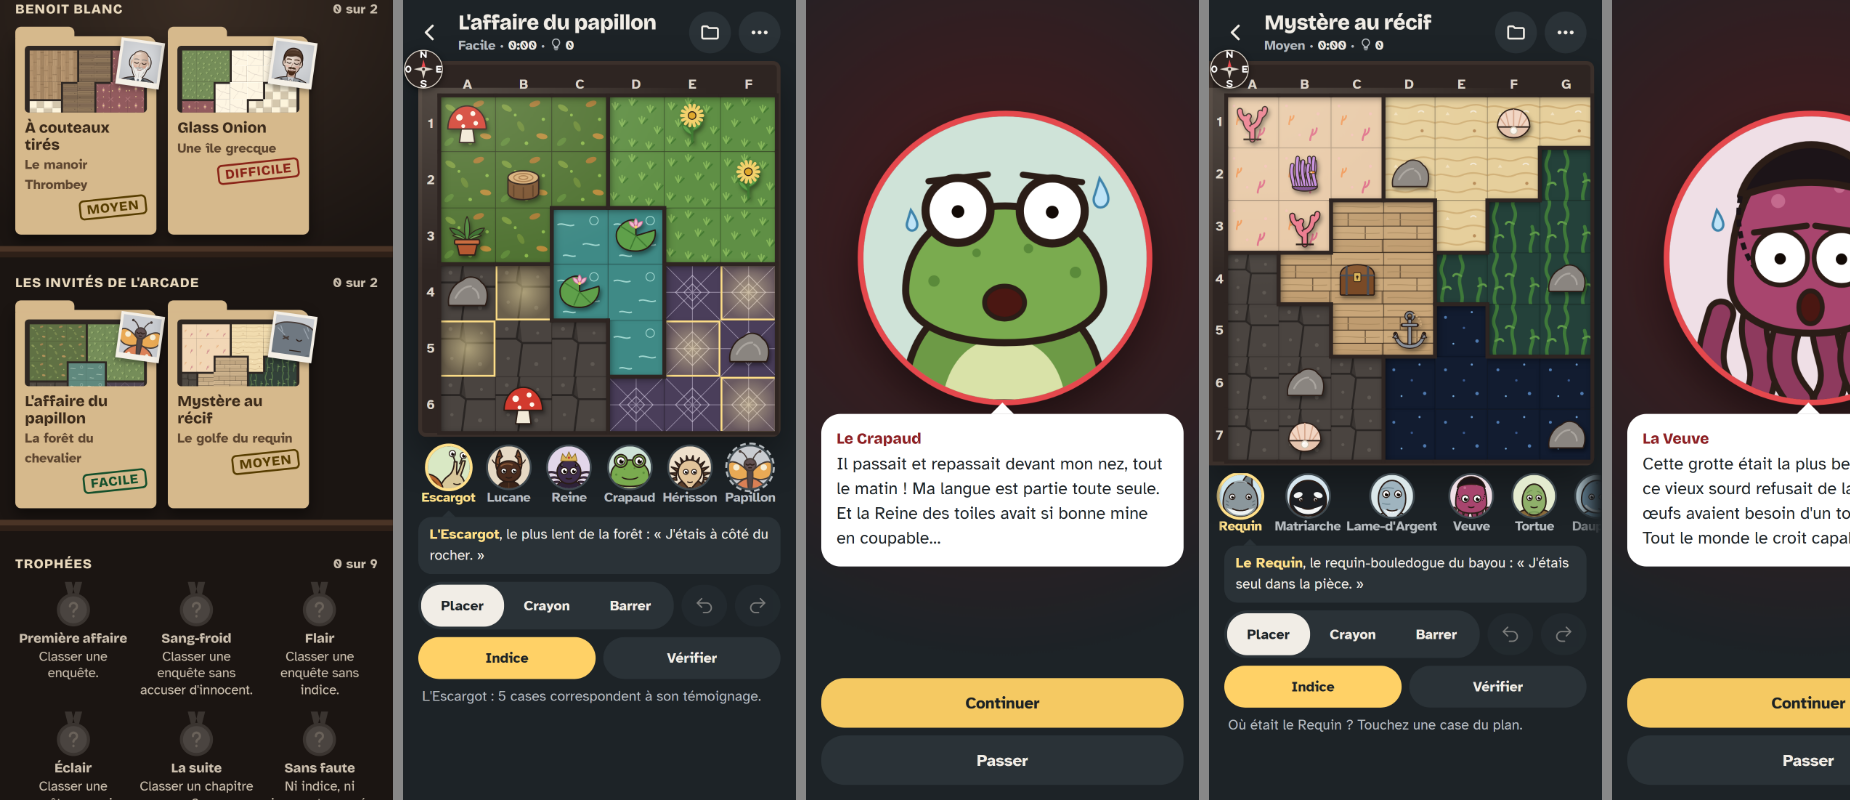
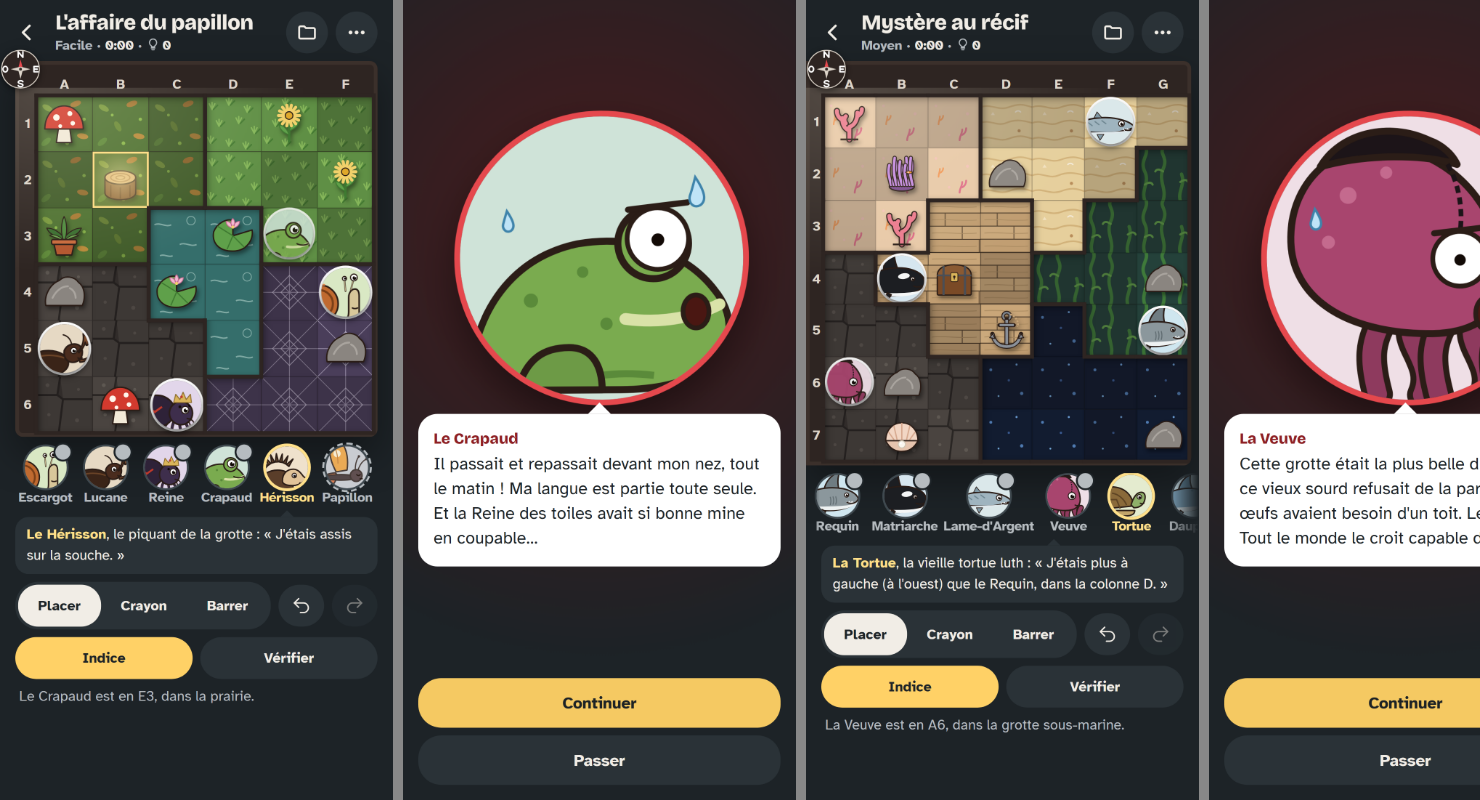
Pièce à conviction : les créatures dessinées de profil (en attente de validation)

diff --git a/conviction/ui/bete.js b/conviction/ui/bete.js
@@ -1,7 +1,7 @@
 // Les créatures des autres jeux de l'Arcade, en portraits : les bestioles du
 // chevalier (games/serpentin/) et les habitants du récif du requin
 // (games/toto/). Même carré de 120 que les bustes humains (buste.js), même
-// contour d'un seul tenant, mêmes expressions : calme, démasqué (« choc »),
+// contour d'un seul tenant, de PROFIL (tournés vers la droite), mêmes expressions : calme, démasqué (« choc »),
 // qui proteste (« fier »), et la victime aux yeux fermés.
 
 /** @typedef {import('../engine/types.js').Person} Person */
@@ -14,119 +14,126 @@ const l = (/** @type {number} */ w) => ` stroke="${T}" stroke-width="${w}" strok
 /**
  * Chaque espèce : le fond, le corps (avec son contour), les yeux [x, y, rayon],
  * la bouche [x, y, largeur] et ce qui passe devant le visage.
- * @type {Record<string, { fond: string, corps: string, yeux: [number, number, number][], bouche: [number, number, number], dessus?: string, dy?: number }>}
+ * @type {Record<string, { fond: string, corps: string, yeux: [number, number, number][], bouche: [number, number, number], dessus?: string, dy?: number, cadre?: string }>}
  */
 const ESPECES = {
+  // Tous de PROFIL, tournés vers la droite, comme dans leurs jeux (Julie a
+  // refusé les portraits de face, 2026-10-16). Un seul œil visible.
   // ---------- Le monde du chevalier ----------
   escargot: {
     fond: '#d9e8c4',
-    corps: `<path d="M40 120c0-30 10-52 28-60 4-12 2-24 6-34M88 120c2-34-4-56-14-64 2-14 6-22 12-34" fill="none"/>`
-      + `<path d="M36 120c0-26 6-48 24-60 8-6 12-18 12-30h6c0 12-2 20 0 28 6-10 8-20 12-30h6c-2 12-6 22-10 32 10 10 14 30 14 60z" fill="#d8c79a"${L}/>`
-      + `<path d="M74 30l-6-18M84 34l8-18" ${l(3)}/>`
-      + `<circle cx="8" cy="96" r="40" fill="#b5652e"${L}/><path d="M8 96m-30 0a30 30 0 1 1 30 30 22 22 0 1 1 -22-22 14 14 0 1 1 14 14 7 7 0 1 1-7-7" stroke="#7a3f18" stroke-width="4" fill="none"/>`,
-    yeux: [[68, 24, 7], [92, 28, 7]], bouche: [78, 90, 14], dy: 12,
+    corps: `<path d="M2 116c0-8 6-12 16-12h66c10 0 16-6 16-18V58c0-10 6-16 12-16s8 6 8 14v40c0 12-8 20-20 20z" fill="#d8c79a"${L}/>`
+      + `<path d="M94 46l-2-22M104 44l6-24" ${l(3)}/><path d="M94 46l-2-22M104 44l6-24" stroke="#d8c79a" stroke-width="1.4"/>`
+      + `<circle cx="44" cy="70" r="36" fill="#c06a30"${L}/><path d="M44 70m-26 0a26 26 0 1 1 26 26 19 19 0 1 1-19-19 12 12 0 1 1 12 12 6 6 0 1 1-6-6" stroke="#7a3f18" stroke-width="4" fill="none"/>`
+      + `<path d="M22 46c8-10 20-14 32-12" stroke="#e08a50" stroke-width="3" fill="none" stroke-linecap="round"/>`,
+    yeux: [[110, 20, 6.5]], bouche: [112, 78, 10], cadre: 'translate(-20 12)',
+    dessus: `<circle cx="92" cy="22" r="4" fill="#fff"${l(2)}/><circle cx="93" cy="22" r="2" fill="#120a06"/>`,
   },
   lucane: {
     fond: '#e6d9c4',
-    corps: `<path d="M30 120c0-24 12-36 30-36s30 12 30 36z" fill="#3a2418"${L}/><path d="M60 86v34" stroke="#5a3a26" stroke-width="2"/>`
-      // Les mandibules : deux pinces qui partent de la bouche et se croisent en haut.
-      + `<path d="M46 74C30 64 26 40 40 16c4 6 2 12 6 14l-6 6c-2 12 2 24 12 32z" fill="#7a4a2c"${L}/><path d="M74 74C90 64 94 40 80 16c-4 6-2 12-6 14l6 6c2 12-2 24-12 32z" fill="#7a4a2c"${L}/>`
-      + `<path d="M40 30l-6 2M80 30l6 2" ${l(2.4)}/>`
-      + `<path d="M34 64c0-16 12-24 26-24s26 8 26 24c0 12-12 22-26 22S34 76 34 64z" fill="#4a2c1e"${L}/><path d="M42 52c6-6 18-7 26-3" stroke="#8a5a3a" stroke-width="3" fill="none"/>`
-      + `<path d="M40 48c-8 0-14-4-16-10M80 48c8 0 14-4 16-10" ${l(2.2)}/>`,
-    yeux: [[49, 62, 6], [71, 62, 6]], bouche: [60, 76, 12],
+    corps: `<path d="M20 112l-6 8M36 114l-2 6M56 114l2 6" ${l(3)}/>`
+      + `<ellipse cx="44" cy="88" rx="38" ry="24" fill="#3a2418"${L}/><path d="M12 82c14-10 40-12 62-4" stroke="#6b4428" stroke-width="3" fill="none"/>`
+      + `<path d="M74 64c4-10 14-14 24-12 8 2 12 10 10 20-2 10-12 16-22 14-8-2-14-10-12-22z" fill="#4a2c1e"${L}/>`
+      // La mandibule, une grande pince recourbée vers l'avant.
+      + `<path d="M100 66c8-8 12-20 10-34 6 4 10 10 10 18 0 2-2 4-4 4l-2-6c-2 8-6 14-12 20z" fill="#7a4a2c"${L}/><path d="M102 80c8 2 14 0 18-4-2 6-8 10-16 10z" fill="#7a4a2c"${L}/>`
+      + `<path d="M88 52c-2-10-8-16-16-18" ${l(2.4)}/>`,
+    yeux: [[92, 64, 6]], bouche: [104, 78, 8],
   },
   araignee: {
     fond: '#e2d6ea',
-    corps: [[-1, 0], [1, 0]].map(([s]) => [0, 1, 2, 3].map((k) => `<path d="M${60 + s * 22} ${70 + k * 8}c${s * 16} ${-10 + k * 4} ${s * 30} ${-6 + k * 8} ${s * 40} ${10 + k * 10}" ${l(5)}/><path d="M${60 + s * 22} ${70 + k * 8}c${s * 16} ${-10 + k * 4} ${s * 30} ${-6 + k * 8} ${s * 40} ${10 + k * 10}" stroke="#3a2a4a" stroke-width="2.6" fill="none" stroke-linecap="round"/>`).join('')).join('')
-      + `<ellipse cx="60" cy="104" rx="30" ry="22" fill="#2e2238"${L}/><path d="M48 100l12 10 12-10" stroke="#c0392b" stroke-width="4" fill="none"/>`
-      + `<circle cx="60" cy="64" r="26" fill="#3e2e4c"${L}/>`
-      + `<path d="M42 40l4-16 8 10 6-14 6 14 8-10 4 16z" fill="#d9b45a" stroke="#8a6a2a" stroke-width="1.6" stroke-linejoin="round"/><circle cx="60" cy="33" r="2.4" fill="#c0392b"/>`,
-    yeux: [[50, 62, 7.5], [70, 62, 7.5]], bouche: [60, 78, 12],
-    dessus: `<circle cx="44" cy="50" r="3" fill="#120a06"/><circle cx="76" cy="50" r="3" fill="#120a06"/><circle cx="45" cy="49" r="1" fill="#fff"/><circle cx="77" cy="49" r="1" fill="#fff"/>`,
+    corps: [0, 1, 2, 3].map((k) => `<path d="M${66 + k * 6} 86c${-10 + k * 6} 6 ${-16 + k * 8} 16 ${-22 + k * 14} 30" ${l(5.4)}/><path d="M${66 + k * 6} 86c${-10 + k * 6} 6 ${-16 + k * 8} 16 ${-22 + k * 14} 30" stroke="#3a2a4a" stroke-width="2.8" fill="none" stroke-linecap="round"/>`).join('')
+      + `<ellipse cx="36" cy="72" rx="34" ry="30" fill="#2e2238"${L}/><path d="M18 64l14 10 14-10" stroke="#c0392b" stroke-width="4" fill="none"/>`
+      + `<circle cx="82" cy="76" r="22" fill="#3e2e4c"${L}/>`
+      + `<path d="M68 56l4-16 8 10 6-14 6 14 8-10 2 16z" fill="#d9b45a" stroke="#8a6a2a" stroke-width="1.6" stroke-linejoin="round"/><circle cx="83" cy="45" r="2.4" fill="#c0392b"/>`
+      + `<path d="M100 88c6 2 8 8 6 12M96 92c4 4 4 8 2 12" ${l(2.4)}/>`,
+    yeux: [[90, 70, 7]], bouche: [98, 86, 8],
+    dessus: `<circle cx="80" cy="64" r="2.6" fill="#120a06"/><circle cx="98" cy="62" r="2.2" fill="#120a06"/>`,
   },
   crapaud: {
     fond: '#cfe3d8',
-    corps: `<path d="M18 120c0-30 18-44 42-44s42 14 42 44z" fill="#6d9a46"${L}/><path d="M34 120c2-16 12-26 26-26s24 10 26 26z" fill="#d9e2a8"/>`
-      + `<path d="M18 74c0-22 18-36 42-36s42 14 42 36c0 14-18 22-42 22s-42-8-42-22z" fill="#7aab4f"${L}/>`
-      + `<circle cx="40" cy="40" r="14" fill="#7aab4f"${L}/><circle cx="80" cy="40" r="14" fill="#7aab4f"${L}/>`
-      + `<circle cx="30" cy="70" r="2.4" fill="#5a8a3a"/><circle cx="90" cy="66" r="2.4" fill="#5a8a3a"/><circle cx="70" cy="56" r="2" fill="#5a8a3a"/><circle cx="48" cy="58" r="1.8" fill="#5a8a3a"/>`,
-    yeux: [[40, 40, 9], [80, 40, 9]], bouche: [60, 76, 34],
+    corps: `<path d="M4 116c0-30 16-56 46-62 24-4 46 4 58 20 8 10 8 22 0 30-8 8-22 12-40 12z" fill="#7aab4f"${L}/>`
+      + `<path d="M40 116c10-6 26-8 42-6" stroke="#5a8a3a" stroke-width="3" fill="none"/><path d="M24 116c4-14 12-18 22-18s14 8 14 18z" fill="#6d9a46"${L}/>`
+      + `<circle cx="82" cy="54" r="15" fill="#7aab4f"${L}/>`
+      + `<circle cx="30" cy="78" r="3" fill="#5a8a3a"/><circle cx="52" cy="66" r="2.4" fill="#5a8a3a"/><circle cx="62" cy="88" r="2.6" fill="#5a8a3a"/>`
+      + `<path d="M70 86c14 2 28 0 40-6" stroke="#d9e2a8" stroke-width="5" fill="none" stroke-linecap="round"/>`,
+    yeux: [[84, 52, 9]], bouche: [100, 80, 22],
   },
   herisson: {
     fond: '#efe1cc',
-    corps: Array.from({ length: 13 }, (_, k) => { const a = Math.PI * (0.95 + k * 0.09 / 1.04 * 1.15); const x = 60 + Math.cos(a) * 46, y = 74 + Math.sin(a) * 46; const b = 60 + Math.cos(a - 0.12) * 30, c = 74 + Math.sin(a - 0.12) * 30, d = 60 + Math.cos(a + 0.12) * 30, e = 74 + Math.sin(a + 0.12) * 30; return `<path d="M${b.toFixed(1)} ${c.toFixed(1)}L${x.toFixed(1)} ${y.toFixed(1)}L${d.toFixed(1)} ${e.toFixed(1)}z" fill="#6b4a32"${L}/>`; }).join('')
-      + `<path d="M24 120c0-26 16-40 36-40s36 14 36 40z" fill="#5a3e2a"${L}/>`
-      + `<path d="M34 66c0-18 12-28 26-28s26 10 26 28c0 10-8 18-14 24l-12 14-12-14c-6-6-14-14-14-24z" fill="#e2c49a"${L}/>`
-      + `<circle cx="60" cy="102" r="5" fill="#1c1410"/>`,
-    yeux: [[51, 64, 5.5], [69, 64, 5.5]], bouche: [60, 86, 10],
+    corps: Array.from({ length: 11 }, (_, k) => { const a = Math.PI * (0.92 + k * 0.08); const x = 54 + Math.cos(a) * 52, y = 82 + Math.sin(a) * 52; const b = 54 + Math.cos(a - 0.1) * 34, c = 82 + Math.sin(a - 0.1) * 34, d = 54 + Math.cos(a + 0.1) * 34, e = 82 + Math.sin(a + 0.1) * 34; return `<path d="M${b.toFixed(1)} ${c.toFixed(1)}L${x.toFixed(1)} ${y.toFixed(1)}L${d.toFixed(1)} ${e.toFixed(1)}z" fill="#6b4a32"${L}/>`; }).join('')
+      + `<path d="M6 116c0-30 20-50 48-50s34 20 34 50z" fill="#5a3e2a"${L}/>`
+      + `<path d="M64 90c0-16 10-26 24-26 10 0 16 8 22 16l8 6-6 4c-8 6-16 10-26 10-14 0-22-4-22-10z" fill="#e2c49a"${L}/>`
+      + `<circle cx="117" cy="86" r="4" fill="#1c1410"/><path d="M78 116v-8M94 116v-8" ${l(3)}/>`,
+    yeux: [[90, 78, 5]], bouche: [106, 94, 8],
   },
   papillon: {
     fond: '#e8e4f2',
-    corps: `<path d="M60 70C40 40 6 30 10 60c3 22 30 26 50 14z" fill="#f2a33a"${L}/><path d="M60 70c20-30 54-40 50-10-3 22-30 26-50 14z" fill="#f2a33a"${L}/>`
-      + `<path d="M60 76c-18 4-40 18-34 36 6 14 26 4 34-16z" fill="#e0703a"${L}/><path d="M60 76c18 4 40 18 34 36-6 14-26 4-34-16z" fill="#e0703a"${L}/>`
-      + `<circle cx="30" cy="54" r="7" fill="#fff4d6"/><circle cx="90" cy="54" r="7" fill="#fff4d6"/><circle cx="38" cy="100" r="4" fill="#fff4d6"/><circle cx="82" cy="100" r="4" fill="#fff4d6"/>`
-      + `<path d="M54 70c0-10 2-16 6-16s6 6 6 16-2 40-6 40-6-30-6-40z" fill="#3a2a2a"${L}/>`
-      + `<circle cx="60" cy="48" r="13" fill="#4a3434"${L}/><path d="M54 37c-4-10-10-16-16-18M66 37c4-10 10-16 16-18" ${l(2.6)}/><circle cx="38" cy="19" r="3" fill="${T}"/><circle cx="82" cy="19" r="3" fill="${T}"/>`,
-    yeux: [[55, 47, 4], [65, 47, 4]], bouche: [60, 55, 6],
+    corps: `<path d="M50 70C34 40 30 12 52 6c18-4 26 30 22 60z" fill="#f2a33a"${L}/><path d="M48 72C20 74 4 90 12 106c8 12 30 4 42-28z" fill="#e0703a"${L}/>`
+      + `<circle cx="52" cy="30" r="8" fill="#fff4d6"/><circle cx="26" cy="96" r="5" fill="#fff4d6"/><path d="M48 18c4 10 6 22 6 34" stroke="#c4782a" stroke-width="2" fill="none"/>`
+      + `<path d="M20 80c20-4 46-6 66-2 4 2 4 6 0 8-20 4-46 2-66-2z" fill="#3a2a2a"${L}/>`
+      + `<circle cx="94" cy="78" r="13" fill="#4a3434"${L}/><path d="M98 66c4-12 10-20 18-24M92 66c0-12 2-22 8-30" ${l(2.4)}/><circle cx="116" cy="42" r="2.6" fill="${T}"/><circle cx="100" cy="36" r="2.6" fill="${T}"/>`,
+    yeux: [[99, 76, 4]], bouche: [105, 85, 5],
   },
-  // ---------- Le récif du requin ----------
+  // ---------- Le golfe du requin ----------
   requin: {
     fond: '#cfe6ef',
-    corps: `<path d="M64 26c4-14 14-22 26-24-4 8-6 18-4 30z" fill="#6f7c82"${L}/><path d="M8 120c4-22 18-34 34-38l-10-22 26 14h4l26-14-10 22c16 4 30 16 34 38z" fill="#7d8a90"${L}/>`
-      + `<path d="M22 70c0-30 16-48 38-48s38 18 38 48c0 18-16 30-38 30S22 88 22 70z" fill="#8b979c"${L}/>`
-      + `<path d="M30 80c8 12 18 16 30 16s22-4 30-16c-8 4-18 6-30 6s-22-2-30-6z" fill="#eef2f2"/>`
-      + `<path d="M46 26c6-6 22-6 28 0" stroke="#a4b0b4" stroke-width="3" fill="none"/><path d="M28 64l6 4M28 72l6 3M92 64l-6 4M92 72l-6 3" stroke="#5f6b70" stroke-width="2"/>`,
-    yeux: [[42, 56, 6], [78, 56, 6]], bouche: [60, 82, 34],
-    dessus: `<path d="M46 85l3 4 3-4 3 4 3-4 3 4 3-4 3 4 3-4" stroke="#fff" stroke-width="1.8" fill="none" stroke-linejoin="round"/>`,
+    corps: `<path d="M44 48c4-20 16-34 34-40-4 14-4 28 0 40z" fill="#6f7c82"${L}/>`
+      + `<path d="M-6 66c20-20 56-28 92-22 18 4 30 12 34 22-6 12-20 20-40 24-32 6-64 0-86-8z" fill="#8b979c"${L}/>`
+      + `<path d="M10 84c24 8 54 10 80 4 12-2 22-8 26-14-6 4-14 6-24 7-30 3-58 2-82 3z" fill="#eef2f2"/>`
+      + `<path d="M58 62c2 6 2 12 0 18M64 61c2 6 2 12 0 18M70 61c2 6 2 12 0 18" stroke="#5f6b70" stroke-width="2" fill="none"/>`
+      + `<path d="M40 90c-4 10-12 18-22 22 12 0 24-6 30-18z" fill="#6f7c82"${L}/>`,
+    yeux: [[94, 58, 4.6]], bouche: [104, 74, 18],
+    dessus: `<path d="M94 72l3 4 3-4 3 4 3-4 3 4" stroke="#fff" stroke-width="1.6" fill="none" stroke-linejoin="round"/>`,
   },
   orque: {
     fond: '#d6e6ef',
-    corps: `<path d="M10 120c4-26 22-40 50-40s46 14 50 40z" fill="#1c1e22"${L}/><path d="M34 120c4-14 14-22 26-22s22 8 26 22z" fill="#f4f6f6"/>`
-      + `<path d="M20 66c0-28 18-46 40-46s40 18 40 46c0 20-18 32-40 32S20 86 20 66z" fill="#1c1e22"${L}/>`
-      + `<path d="M28 74c6 14 18 20 32 20s26-6 32-20c-10 6-20 8-32 8s-22-2-32-8z" fill="#f4f6f6"/>`
-      + `<ellipse cx="38" cy="52" rx="10" ry="6" fill="#f4f6f6" transform="rotate(-18 38 52)"/><ellipse cx="82" cy="52" rx="10" ry="6" fill="#f4f6f6" transform="rotate(18 82 52)"/>`,
-    yeux: [[44, 62, 4.5], [76, 62, 4.5]], bouche: [60, 80, 26],
+    corps: `<path d="M36 44c2-22 10-36 22-42 0 14 2 28 8 40z" fill="#1c1e22"${L}/>`
+      + `<path d="M-6 70c16-24 52-34 88-30 24 4 38 14 38 28 0 12-16 22-40 26-34 6-66 0-86-8z" fill="#1c1e22"${L}/>`
+      + `<path d="M14 90c26 8 56 10 82 4 10-2 18-6 22-12-8 4-16 6-26 7-30 3-56 1-78 1z" fill="#f4f6f6"/>`
+      + `<ellipse cx="78" cy="56" rx="12" ry="6" fill="#f4f6f6" transform="rotate(-8 78 56)"/><path d="M44 90c-2 10-10 18-20 22 12 0 22-6 28-18z" fill="#1c1e22"${L}/>`,
+    yeux: [[96, 62, 4]], bouche: [106, 76, 16],
   },
   barracuda: {
     fond: '#dbe8ea',
-    corps: `<path d="M16 120c6-22 22-32 44-32s38 10 44 32z" fill="#7f97a3"${L}/>`
-      + `<path d="M30 60c0-24 14-40 30-40s30 16 30 40c0 22-12 38-30 44-18-6-30-22-30-44z" fill="#9fb4bf"${L}/>`
-      + `<path d="M40 82c6 12 12 20 20 24 8-4 14-12 20-24-6 4-12 6-20 6s-14-2-20-6z" fill="#dfe8ec"/>`
-      + `<path d="M36 40c8-4 20-5 28-2M38 70c6 2 12 3 18 2" stroke="#6f8792" stroke-width="2" fill="none"/>`,
-    yeux: [[47, 50, 7.5], [73, 50, 7.5]], bouche: [60, 84, 22],
-    dessus: `<path d="M48 86l3 5 3-5 3 5 3-5 3 5 3-5 3 5" stroke="#fff" stroke-width="1.6" fill="none" stroke-linejoin="round"/>`,
+    corps: `<path d="M-6 70c20-14 50-20 80-18 18 2 34 6 44 14l6 6-8 2c-12 4-26 8-42 8-30 2-58-2-80-6z" fill="#9fb4bf"${L}/>`
+      + `<path d="M6 82c26 6 56 6 84 2 10-2 20-4 26-8-8 2-18 4-28 4-28 2-56 2-82 2z" fill="#dfe8ec"/>`
+      + `<path d="M14 66l8 6M28 62l8 6M42 60l8 6M56 58l8 6" stroke="#6f8792" stroke-width="2.4" stroke-linecap="round"/>`
+      + `<path d="M40 52l6-12 10 12zM46 86l6 12 8-12z" fill="#7f97a3"${l(1.4)}/>`,
+    yeux: [[96, 64, 6]], bouche: [110, 76, 14],
+    dessus: `<path d="M100 74l2 4 2-4 2 4 2-4 2 4 2-4" stroke="#fff" stroke-width="1.6" fill="none" stroke-linejoin="round"/>`,
   },
   pieuvre: {
     fond: '#efdfe6',
-    corps: [0, 1, 2, 3, 4, 5].map((k) => { const x = 22 + k * 15; return `<path d="M${x} 84c-4 14 ${k % 2 ? 8 : -8} 22 ${k % 2 ? 0 : 4} 36" stroke="${T}" stroke-width="13" fill="none" stroke-linecap="round"/><path d="M${x} 84c-4 14 ${k % 2 ? 8 : -8} 22 ${k % 2 ? 0 : 4} 36" stroke="#8e3a5e" stroke-width="8" fill="none" stroke-linecap="round"/>`; }).join('')
-      + `<path d="M26 70c0-38 16-56 34-56s34 18 34 56c0 14-14 22-34 22S26 84 26 70z" fill="#a8456e"${L}/><circle cx="46" cy="36" r="3" fill="#c46a8e"/><circle cx="72" cy="30" r="2.4" fill="#c46a8e"/>`
-      // La voilette de veuve : chapeau noir et dentelle.
-      + `<path d="M30 34c4-14 18-22 30-22s26 8 30 22c-10-4-20-6-30-6s-20 2-30 6z" fill="#1c1418"${L}/><path d="M30 34c-2 10 0 22 6 30M90 34c2 10 0 22-6 30" stroke="#1c1418" stroke-width="2" fill="none" stroke-dasharray="3 2"/>`,
-    yeux: [[47, 60, 8], [73, 60, 8]], bouche: [60, 78, 12],
+    corps: [0, 1, 2, 3, 4].map((k) => { const x = 50 + k * 13; return `<path d="M${x} 86c-6 10 ${k % 2 ? 10 : -6} 18 ${k % 2 ? 4 : -2} 32" stroke="${T}" stroke-width="13" fill="none" stroke-linecap="round"/><path d="M${x} 86c-6 10 ${k % 2 ? 10 : -6} 18 ${k % 2 ? 4 : -2} 32" stroke="#8e3a5e" stroke-width="8" fill="none" stroke-linecap="round"/>`; }).join('')
+      + `<path d="M10 52C10 24 34 8 58 14c24 6 40 26 42 50 2 18-10 28-32 28-34 0-58-14-58-40z" fill="#a8456e"${L}/><circle cx="34" cy="34" r="3.6" fill="#c46a8e"/><circle cx="50" cy="24" r="2.6" fill="#c46a8e"/><circle cx="26" cy="54" r="2.8" fill="#c46a8e"/>`
+      // La voilette de veuve : chapeau noir incliné et dentelle.
+      + `<path d="M22 22c8-14 28-20 46-12 6 2 10 6 12 10-14-4-38-4-58 2z" fill="#1c1418"${L}/><path d="M76 20c6 10 8 24 4 38" stroke="#1c1418" stroke-width="2" fill="none" stroke-dasharray="3 2"/>`,
+    yeux: [[82, 60, 8]], bouche: [94, 80, 10],
   },
   tortue: {
     fond: '#e4ebcf',
-    corps: `<path d="M6 120c6-26 26-38 54-38s48 12 54 38z" fill="#8a6a3a"${L}/><path d="M24 120l10-18 26-6 26 6 10 18" stroke="#5e4424" stroke-width="3" fill="none"/>`
-      + `<path d="M34 66c0-22 12-38 26-38s26 16 26 38c0 18-12 30-26 30S34 84 34 66z" fill="#8fb06a"${L}/>`
-      + `<path d="M44 48c4-4 8-6 12-6M66 44c4 0 8 2 10 6" stroke="#6d9050" stroke-width="2" fill="none"/><path d="M46 92c4-2 9-3 14-3s10 1 14 3" stroke="#6d9050" stroke-width="2" fill="none"/>`,
-    yeux: [[50, 58, 6], [70, 58, 6]], bouche: [60, 78, 14],
+    corps: `<path d="M-4 96c0-30 22-52 52-52s46 18 50 42z" fill="#8a6a3a"${L}/><path d="M10 92c6-16 18-30 34-34M50 58c14 2 26 12 32 26M30 92l8-20h22l8 20" stroke="#5e4424" stroke-width="3" fill="none"/>`
+      + `<path d="M-4 96h104c0 8-8 12-20 12H10c-10 0-14-4-14-12z" fill="#c2a46a"${L}/>`
+      + `<path d="M92 84c4-16 12-28 22-28 8 0 10 8 8 16-2 10-10 18-24 18z" fill="#8fb06a"${L}/>`
+      + `<path d="M64 106c10 4 22 10 30 16-12 0-24-4-32-10z" fill="#8fb06a"${L}/>`,
+    yeux: [[110, 66, 5]], bouche: [116, 80, 8], cadre: 'translate(-18 -4)',
   },
   dauphin: {
     fond: '#d2e9f2',
-    corps: `<path d="M14 120c6-24 22-36 46-36s40 12 46 36z" fill="#6f97b0"${L}/>`
-      + `<path d="M26 62c0-26 16-42 34-42s34 16 34 42c0 8-2 14-6 18 6 4 8 10 6 14-8 2-16-2-20-6-4 2-9 3-14 3-20 0-34-12-34-29z" fill="#82a9c2"${L}/>`
-      + `<path d="M36 76c8 8 18 12 30 12 4 0 8-1 10-2" stroke="#e6f0f4" stroke-width="5" fill="none" stroke-linecap="round"/><circle cx="60" cy="26" r="2.4" fill="#5d8aa6"/>`,
-    yeux: [[48, 56, 6], [70, 56, 6]], bouche: [72, 82, 16],
+    corps: `<path d="M40 46c4-16 14-28 26-32-2 12 0 24 6 34z" fill="#6f97b0"${L}/>`
+      + `<path d="M-6 74c18-24 52-34 82-30 16 2 26 8 32 16l14 4c2 4 0 6-4 8l-12 2c-8 10-24 16-42 18-30 4-54-4-70-18z" fill="#82a9c2"${L}/>`
+      + `<path d="M14 88c22 8 46 8 66 2 10-3 18-8 24-14-8 4-18 6-28 7-22 2-42 2-62 5z" fill="#e6f0f4"/>`
+      + `<path d="M44 92c-4 10-12 16-22 20 12 0 22-6 28-16z" fill="#6f97b0"${L}/><circle cx="70" cy="48" r="2.4" fill="#5d8aa6"/>`,
+    yeux: [[92, 62, 4.6]], bouche: [112, 72, 10],
   },
   cachalot: {
     fond: '#d2dbe2',
-    corps: `<path d="M4 120V58c0-24 18-36 56-36s56 12 56 36v62z" fill="#5c6670"${L}/>`
-      + `<path d="M16 96c14 10 30 14 44 14s30-4 44-14" stroke="#4a535c" stroke-width="4" fill="none"/>`
-      // Vieux-Borgne : les cicatrices d'un vieux combattant, l'œil gauche crevé.
-      + `<path d="M22 40l18 14M28 34l6 12M84 34l14 22M92 30l4 8" stroke="#8e98a2" stroke-width="2.6" stroke-linecap="round"/>`
-      + `<path d="M38 64l12-6M38 58l12 6" stroke="${T}" stroke-width="3.4" stroke-linecap="round"/>`,
-    yeux: [[76, 62, 6]], bouche: [70, 90, 26],
+    corps: `<path d="M-8 40h88c22 0 36 8 36 24v20c0 18-14 26-36 28-28 2-60 0-88-6z" fill="#5c6670"${L}/>`
+      + `<path d="M40 100c22 2 46 2 66-2 6-2 10-4 12-8l-74 2z" fill="#4a535c"${L}/><path d="M48 98h68" stroke="${T}" stroke-width="2"/>`
+      + `<path d="M58 99l3 4 3-4 3 4 3-4 3 4 3-4 3 4 3-4" stroke="#f2efe6" stroke-width="1.6" fill="none"/>`
+      // Vieux-Borgne : les cicatrices d'un vieux combattant.
+      + `<path d="M20 52l18 12M30 46l6 12M84 48l14 18M70 78l12 4" stroke="#8e98a2" stroke-width="2.6" stroke-linecap="round"/>`,
+    yeux: [[70, 70, 5]], bouche: [96, 92, 12],
   },
 };
 
@@ -161,6 +168,7 @@ export function bete(person, mood = '', serre = false) {
       bouche = `<path d="M${bx - bw / 2} ${by}c${bw / 4} ${bw / 6} ${bw * 0.75} ${bw / 6} ${bw} 0" ${l(2.6)}/>`;
     }
   }
-  const vb = serre ? '14 8 92 92' : '0 0 120 120';
-  return `<svg viewBox="${vb}" aria-hidden="true" focusable="false"><rect x="-10" y="-10" width="140" height="140" fill="${v ? '#c9ccd1' : e.fond}"/><g${v ? ' opacity=".82"' : ''}${e.dy ? ` transform="translate(0 ${e.dy})"` : ''}>${e.corps}</g>${yeux}${e.dessus ?? ''}${sourcils}${bouche}${emotion}</svg>`;
+  // Cadré sur la tête, qui est à droite : les créatures sont de profil.
+  const vb = serre ? '28 14 92 92' : '0 0 120 120';
+  return `<svg viewBox="${vb}" aria-hidden="true" focusable="false"><rect x="-10" y="-10" width="140" height="140" fill="${v ? '#c9ccd1' : e.fond}"/><g${e.cadre ? ` transform="${e.cadre}"` : ''}><g${v ? ' opacity=".82"' : ''}${e.dy ? ` transform="translate(0 ${e.dy})"` : ''}>${e.corps}</g>${yeux}${e.dessus ?? ''}${sourcils}${bouche}</g>${emotion}</svg>`;
 }
